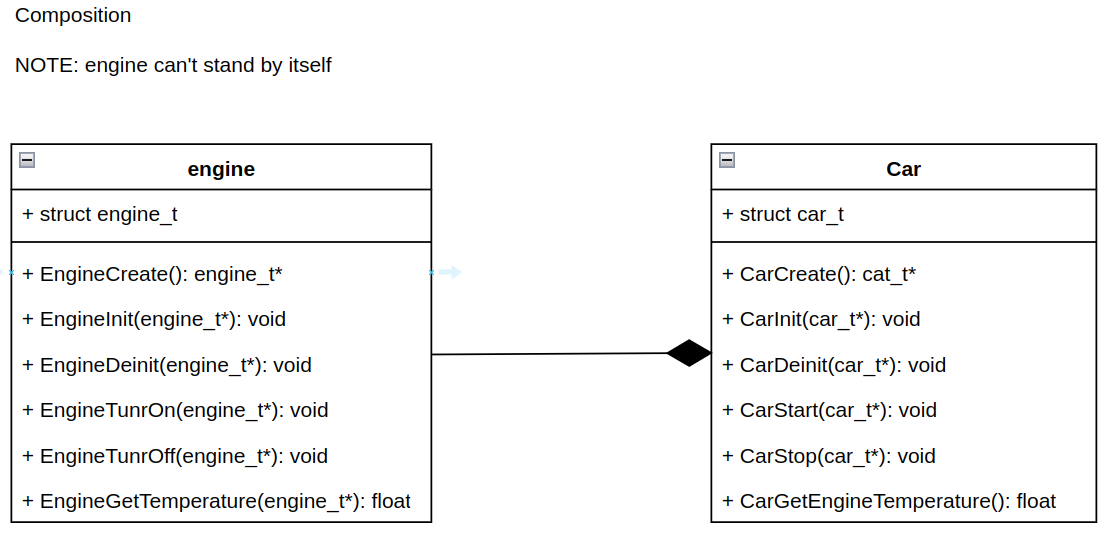
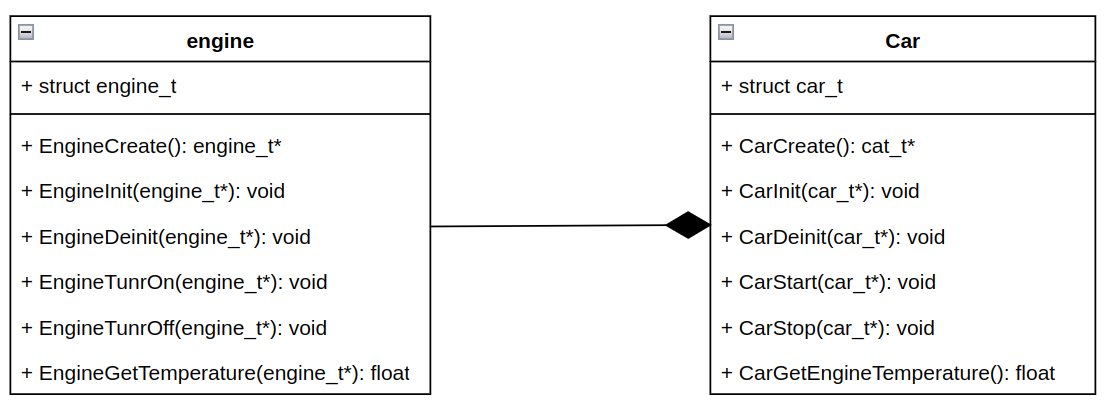
UPDATE: readme

diff --git a/extreme-c/chapter-7/README.md b/extreme-c/chapter-7/README.md
@@ -28,6 +28,9 @@
 
 ![Composition](https://github.com/GIYura/c-tutorial/blob/main/extreme-c/chapter-7/composition.png)
 
+**Примечание:**
+Класс двигатель не может существовать отдельно (самостоятельно) от автомобиля.
+
 Отношение «композиция» между двумя объектами означает, что один из них 
 обладает другим. Иными словами, один объект состоит из другого.
 
